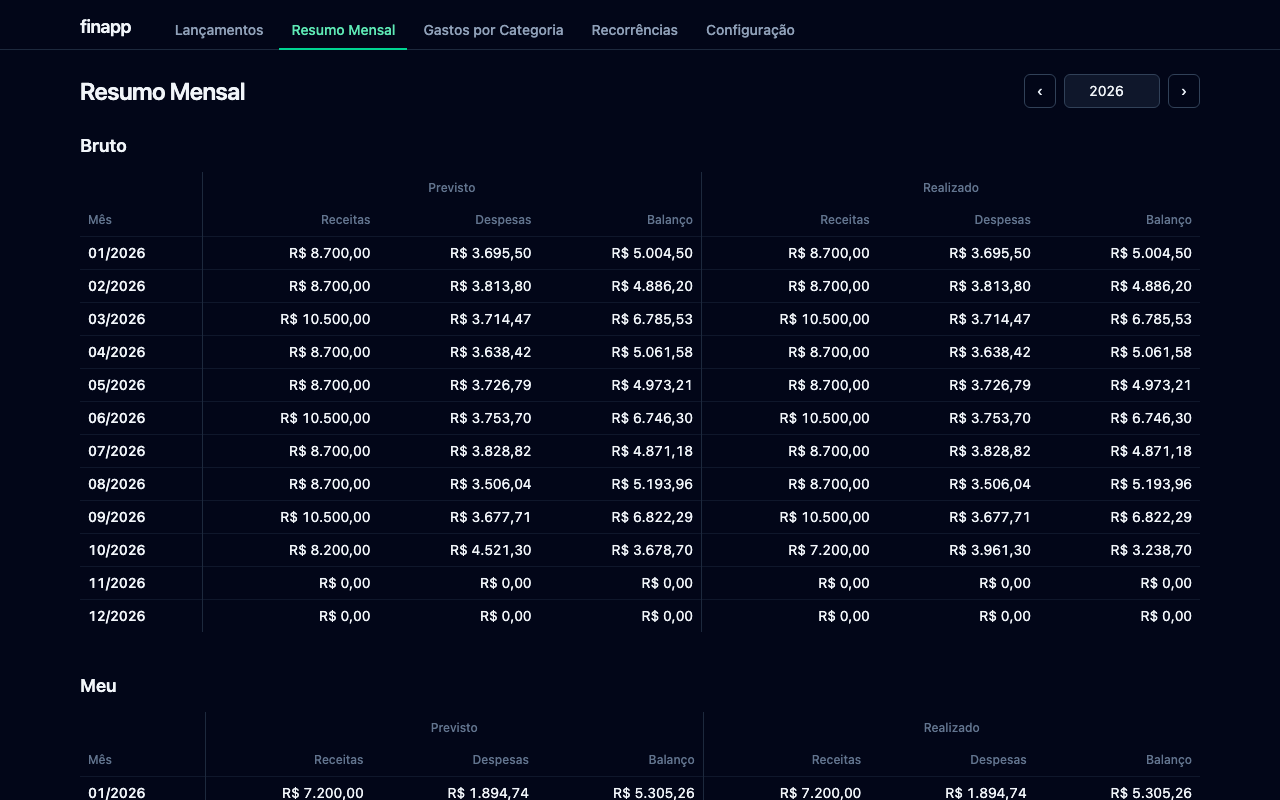
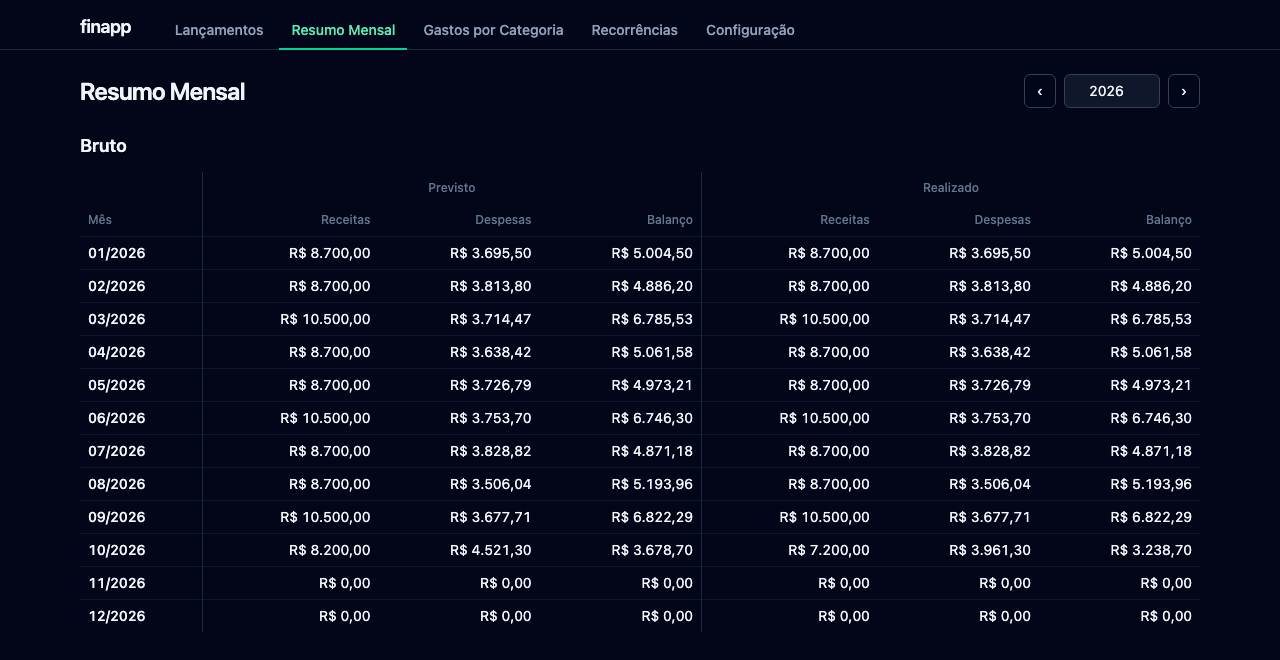
docs: recapture screenshots without cropped content

diff --git a/README.md b/README.md
@@ -6,9 +6,11 @@ stays in one SQLite file on your machine.
 
 ## Screenshots
 
-![Monthly summary](docs/screenshots/summary.png)
+Sample data, default pt-BR interface (English is available in the settings).
 
-![Spending by category](docs/screenshots/spending.png)
+![Monthly summary ("Resumo Mensal"): gross income, expenses and balance per month, planned vs realized](docs/screenshots/summary.png)
+
+![Spending by category ("Gastos por Categoria"): expense totals per category and month](docs/screenshots/spending.png)
 
 ## Running
 
